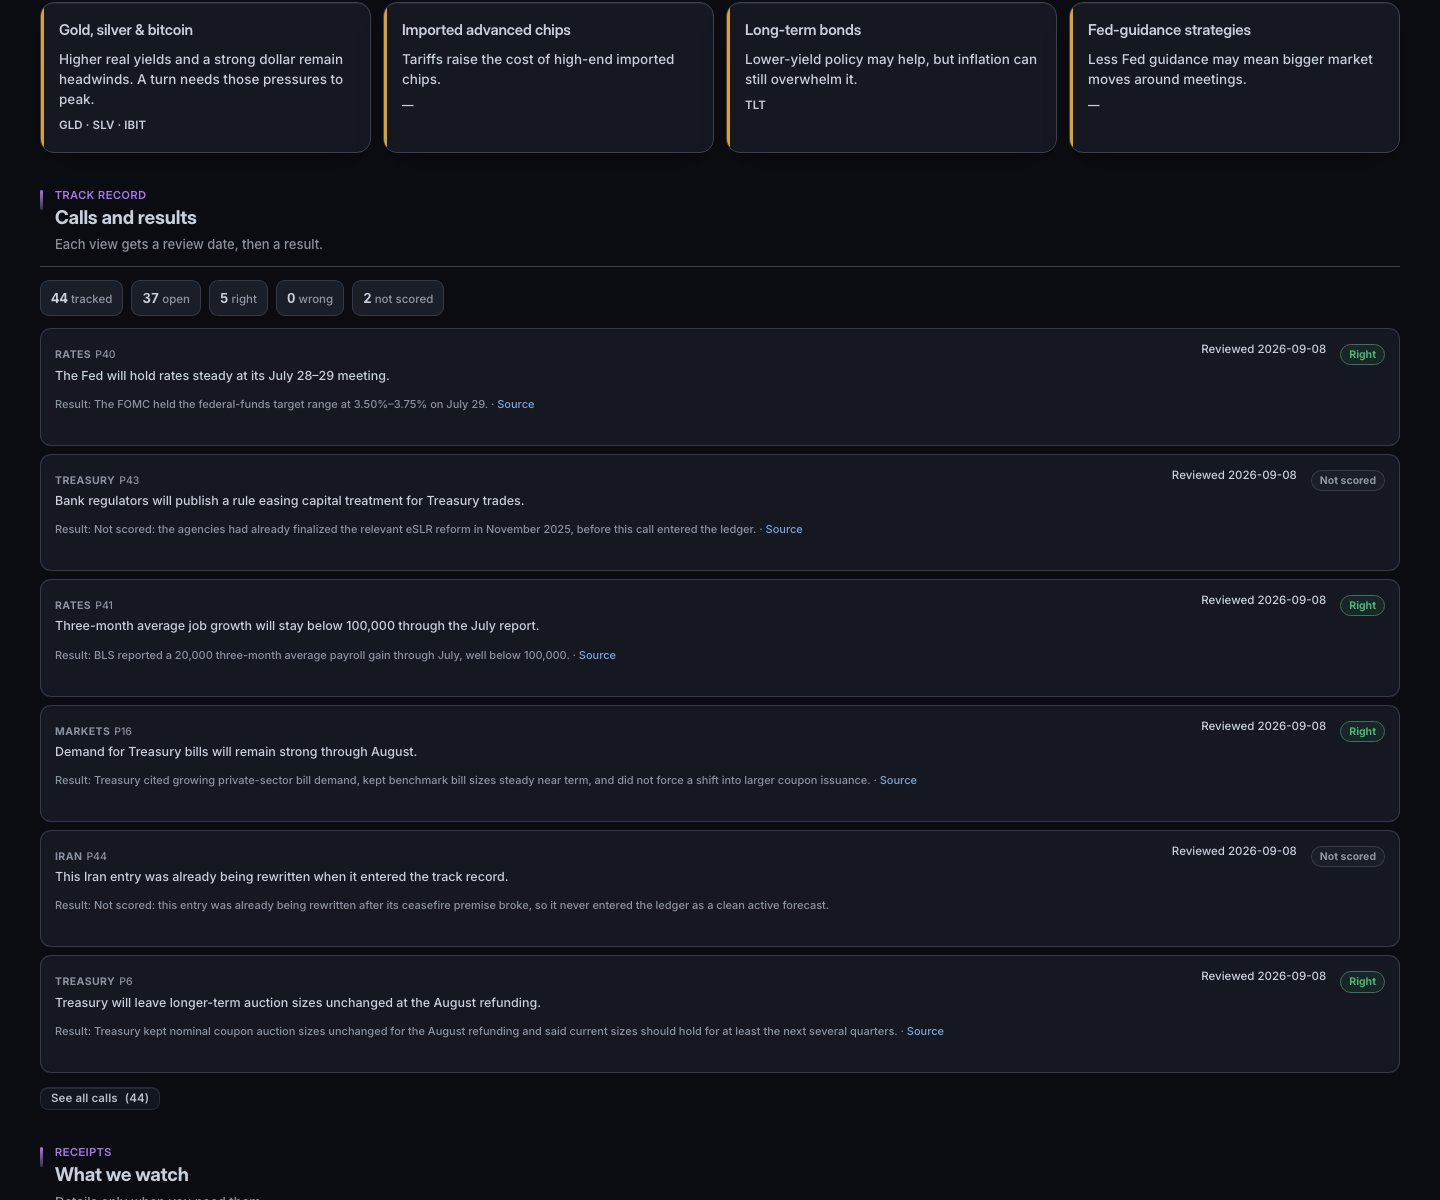
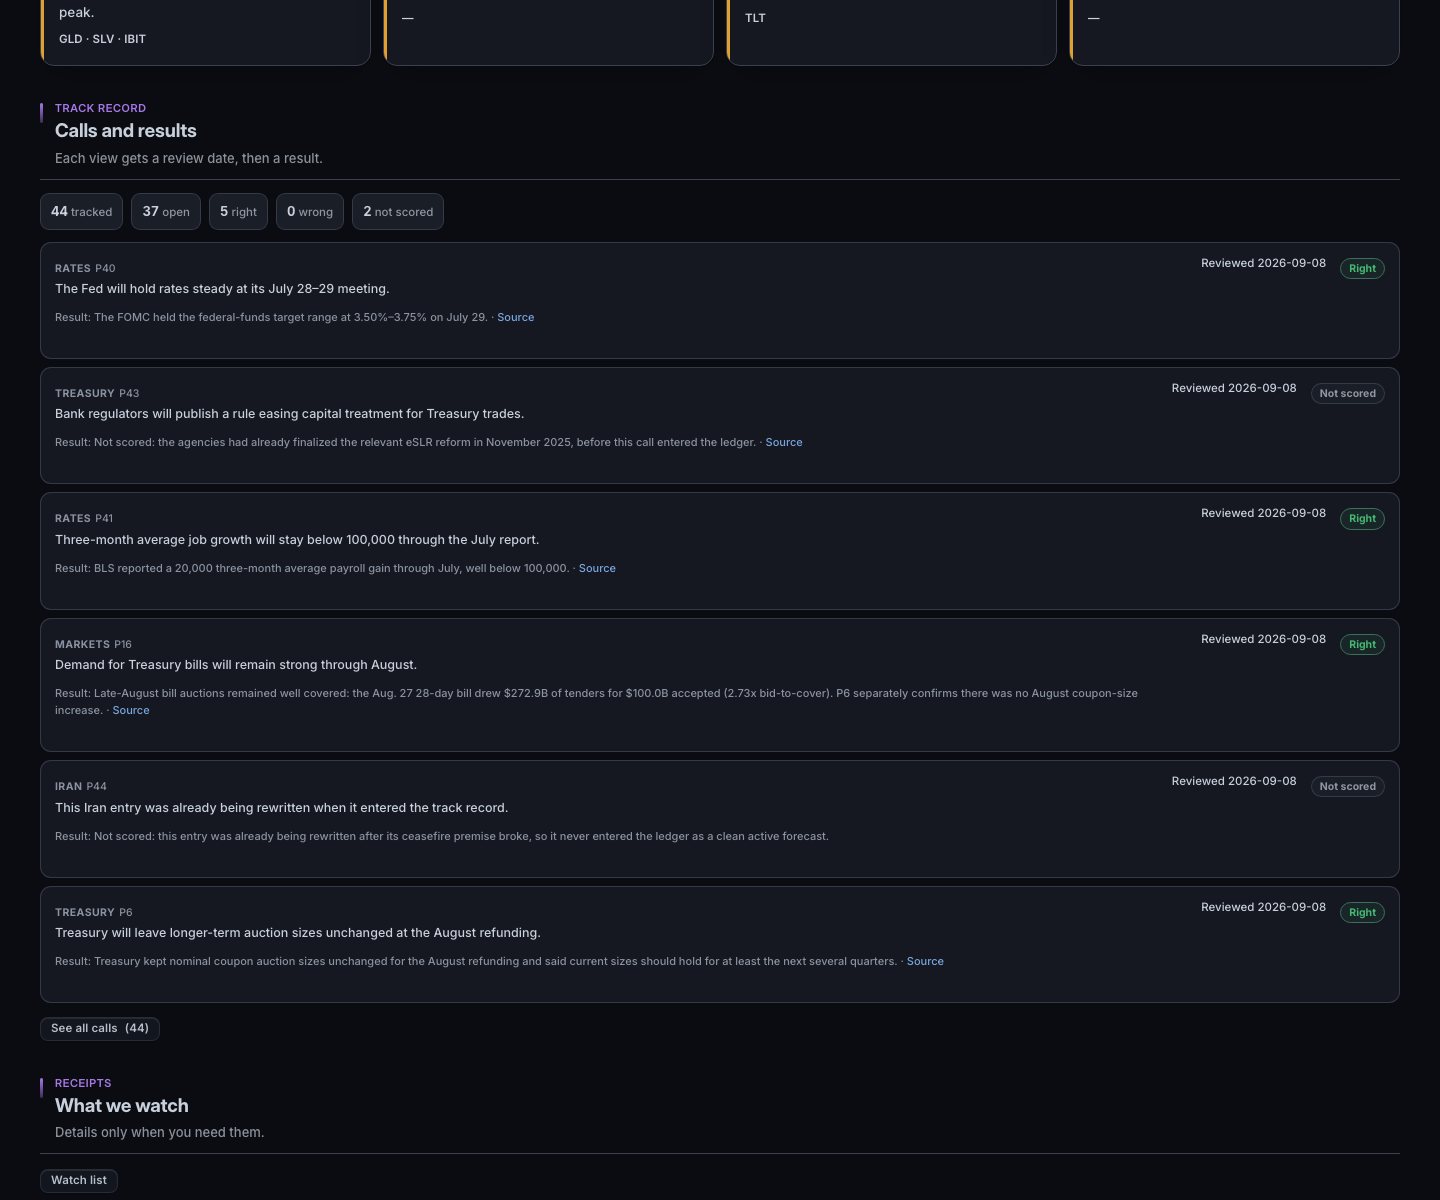
fix(policy): harden August bill-demand receipt

diff --git a/tests/test_policy_watch_ui.py b/tests/test_policy_watch_ui.py
@@ -62,6 +62,8 @@ def test_policy_watch_review_batch_is_resolved_and_auditable():
     for pid in ("P6", "P16", "P40", "P41", "P43", "P44"):
         assert by_id[pid]["reviewed_on"] == "2026-09-08"
         assert by_id[pid]["result_en"] and by_id[pid]["result_zh"] and by_id[pid]["result_code"]
+    assert by_id["P16"]["result_source"].endswith("R_20260827_1.pdf")
+    assert "2.73x bid-to-cover" in by_id["P16"]["result_en"]
     assert by_id["P43"]["result_code"] == "outcome_predated_call"
     assert by_id["P44"]["result_code"] == "premise_broken_at_entry"
 
